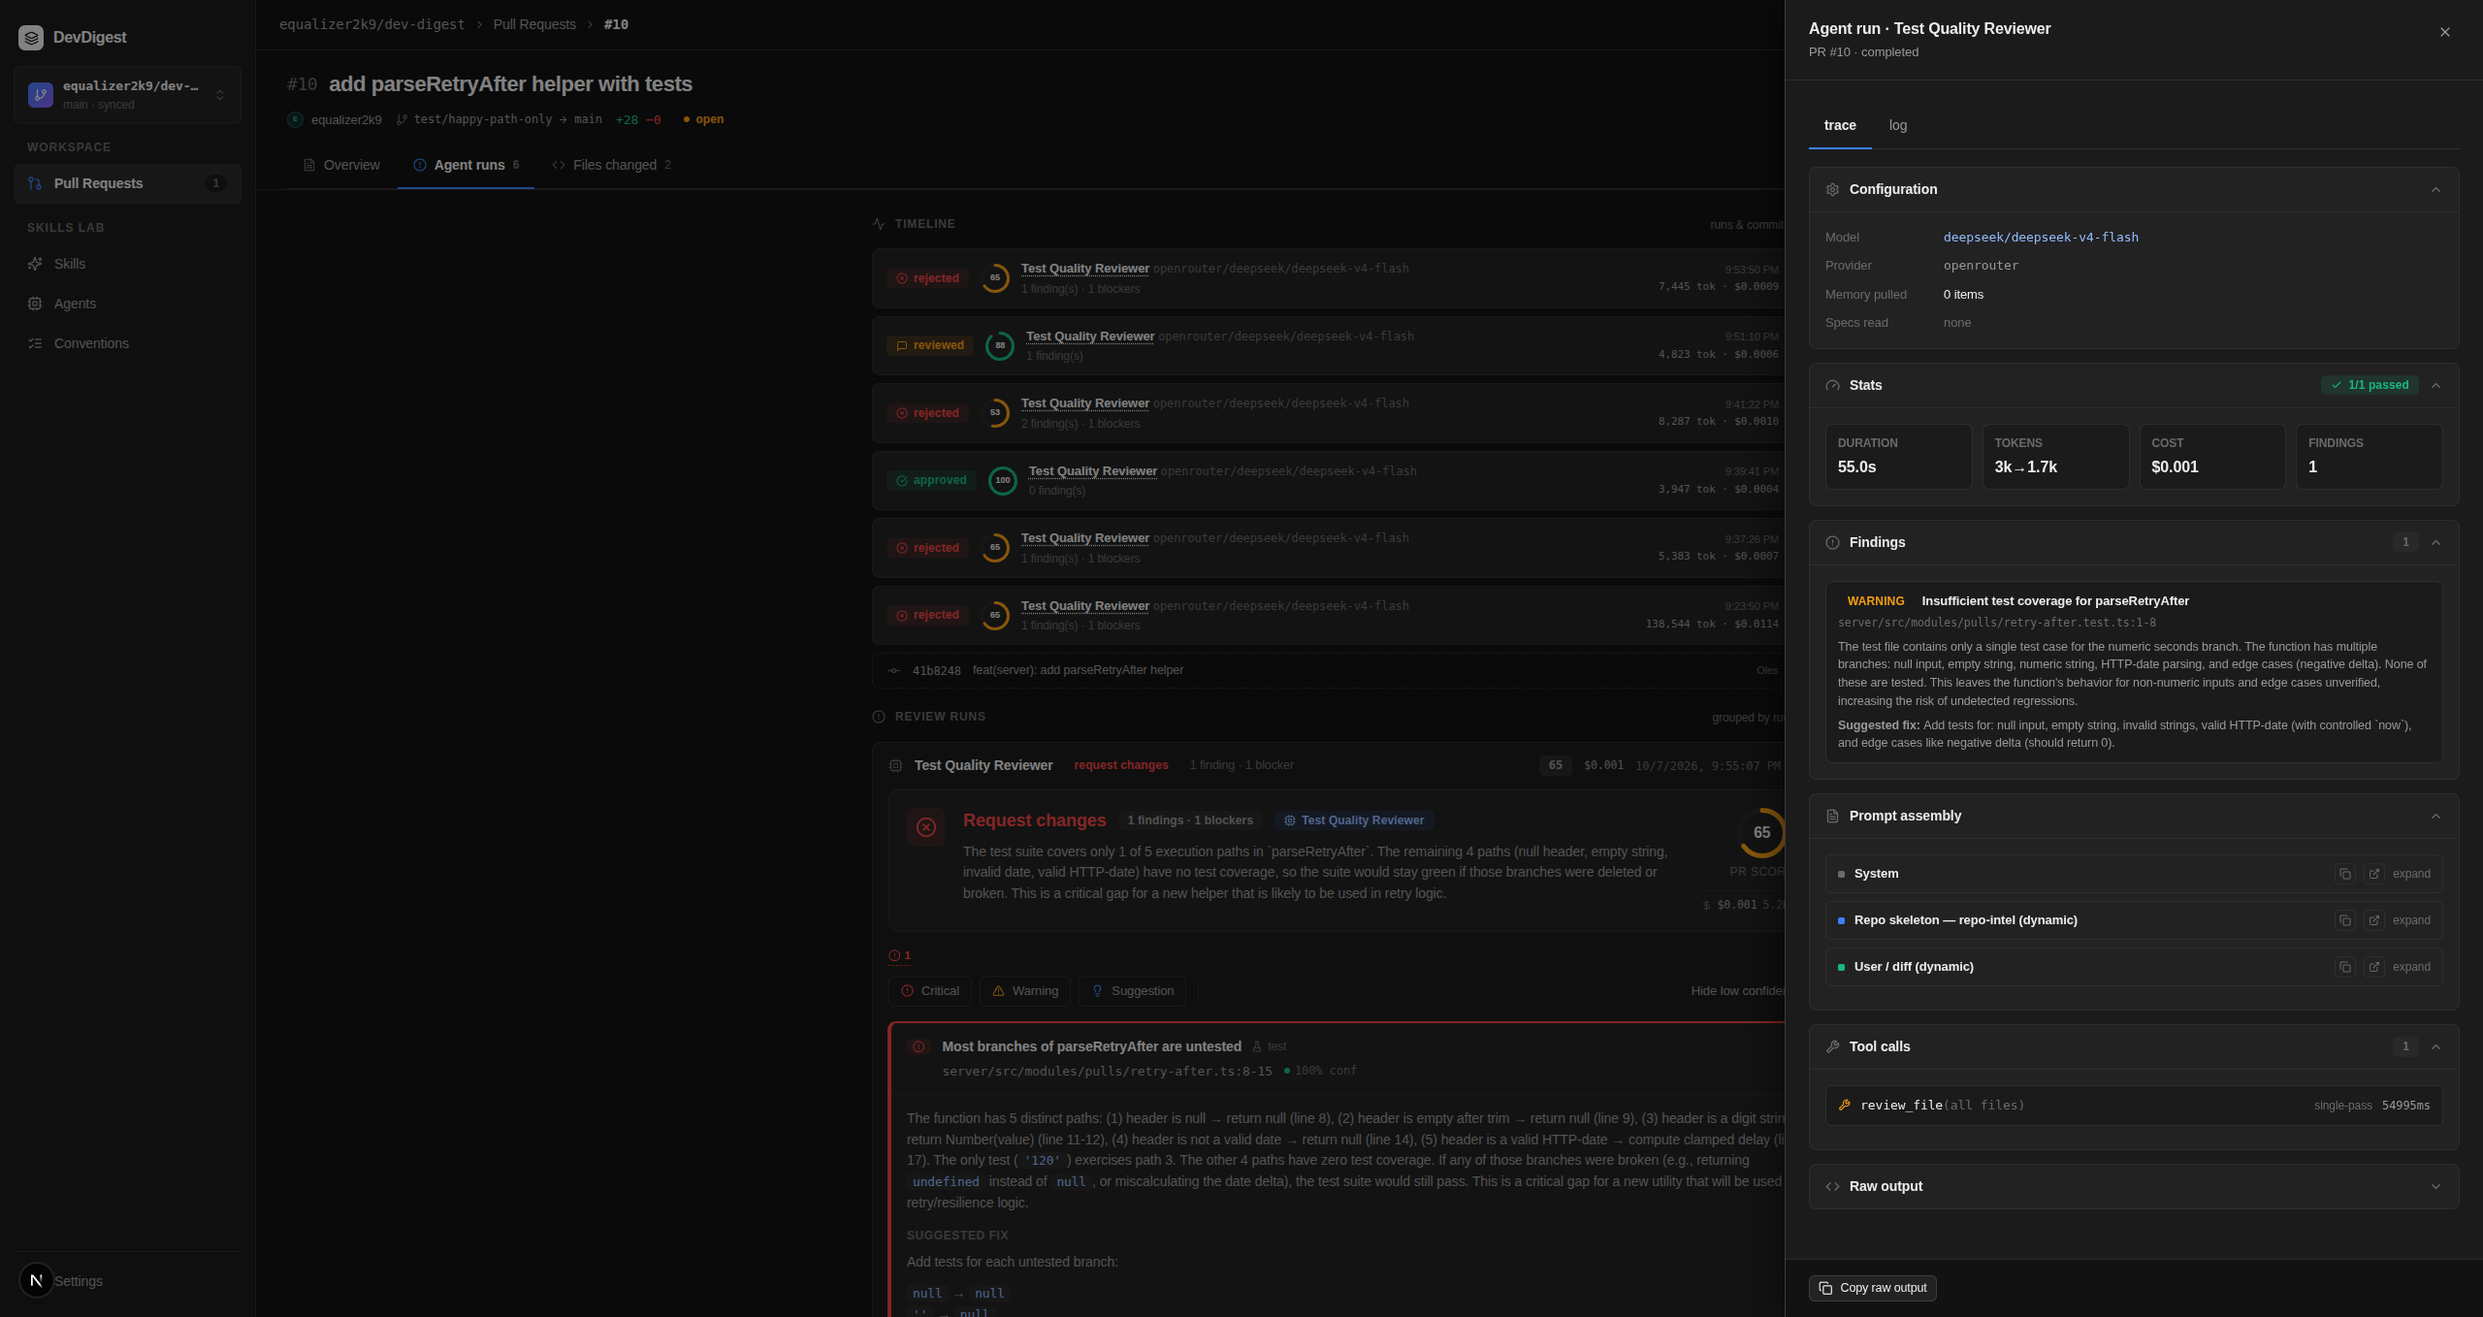
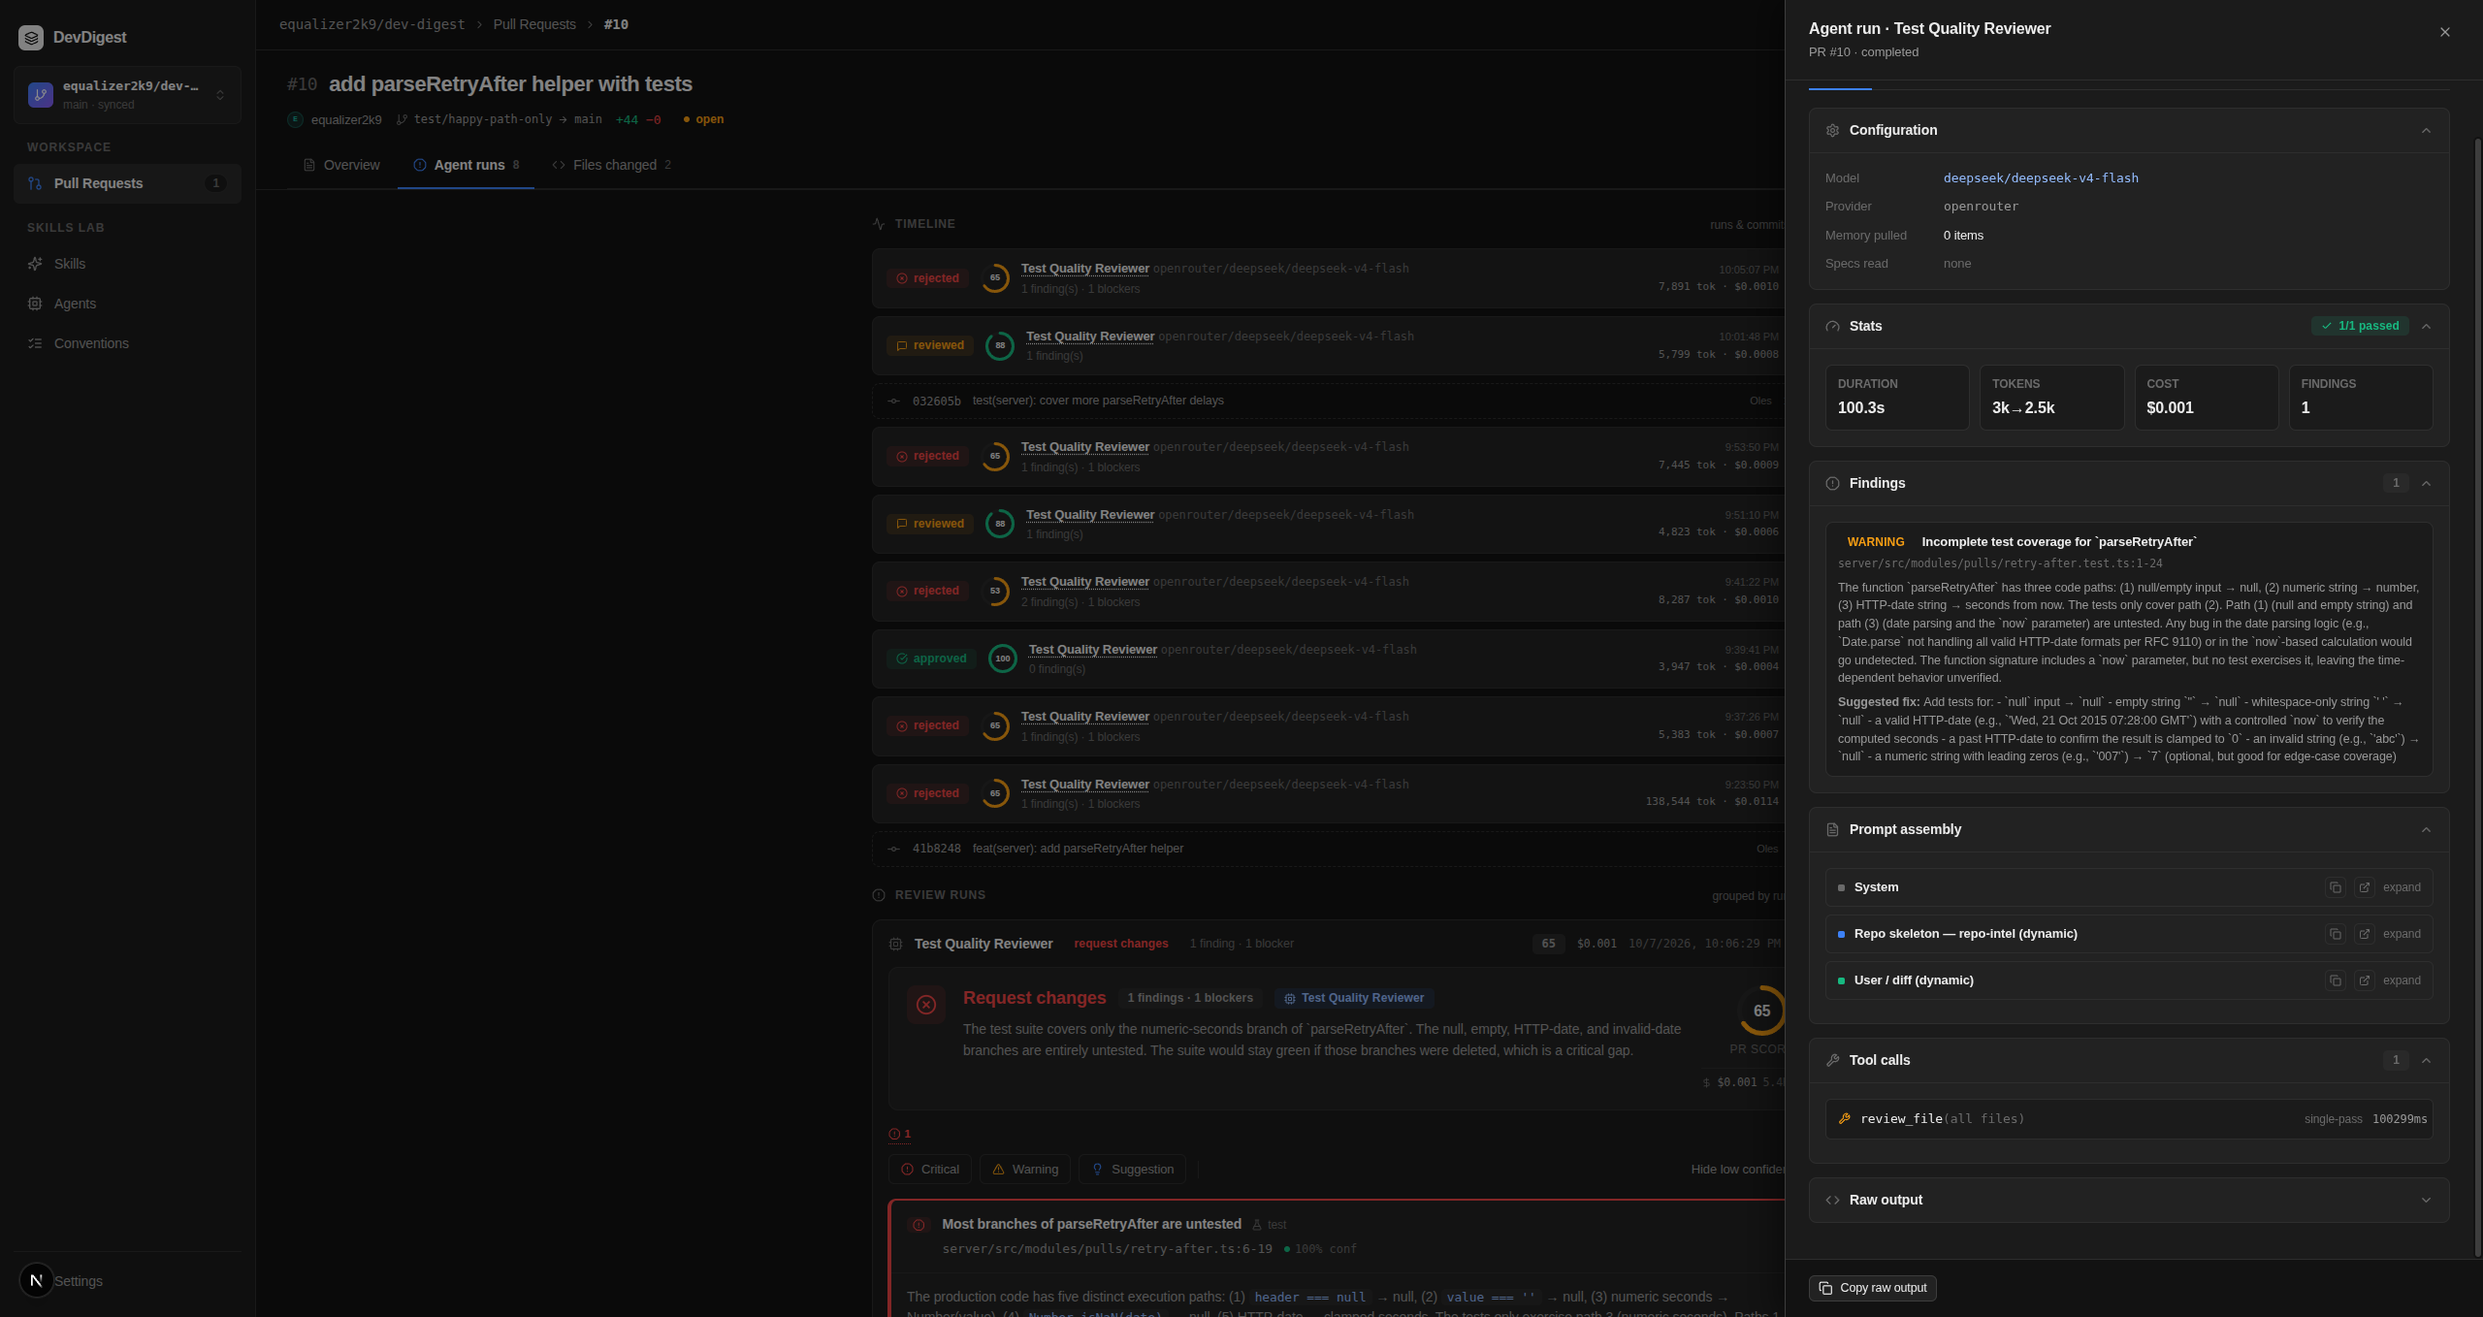
docs(hw2): AC-17 rerun on realistic happy-path PR

diff --git a/docs/hw2/experiment-report.md b/docs/hw2/experiment-report.md
@@ -10,21 +10,21 @@
 - Між прогонами A і B у парі змінюється тільки набір увімкнених скілів: той самий агент, та сама
   модель, той самий diff.
 - PR: [#10](https://github.com/equalizer2k9/dev-digest/pull/10) `test/happy-path-only` —
-  `parseRetryAfter` + тест на один випадок; [#9](https://github.com/equalizer2k9/dev-digest/pull/9)
+  `parseRetryAfter` + тест на п'ять щасливих випадків, усі з числовими рядками (head `032605b`); [#9](https://github.com/equalizer2k9/dev-digest/pull/9)
   `api/route-signature-change` — `PrFile.additions` → `added_lines` лише в серверному контракті.
 
 ## Результати
 
 | PR | Агент | Прогін | Run id | Блок скілів у трасі (токени) | Знахідки | Очікувана знахідка |
 |---|---|---|---|---|---|---|
-| #10 | Test Quality Reviewer | A — скіли вимкнені | `782a7f1c-e779-4cac-825f-2e51bda66f5a` | немає | 1 — WARNING | **є** (очікувалось: нема) |
-| #10 | Test Quality Reviewer | B — 4 скіли | `7cad8f94-cefd-4308-ba72-4334c5d4a17d` | є — 2044 (uncovered-branches 507 · edge-cases 504 · mock-overuse 482 · flaky-tests 551) | 1 — CRITICAL | є |
+| #10 | Test Quality Reviewer | A — скіли вимкнені | `04505739-e572-415c-9749-d0d234f95f50` | немає | 1 — WARNING | **є** (очікувалось: нема) |
+| #10 | Test Quality Reviewer | B — 4 скіли | `414658cb-264e-42e5-9dfc-ab4247d172c7` | є — 2044 (uncovered-branches 507 · edge-cases 504 · mock-overuse 482 · flaky-tests 551) | 1 — CRITICAL | є |
 | #9 | API Contract Reviewer | A — скіли вимкнені | `01e2a66b-cc0b-4387-b729-d1682444c2d4` | немає | 1 — CRITICAL (false positive) | нема |
 | #9 | API Contract Reviewer | B — 4 скіли | `5e3c0877-8c1c-4b15-8ea0-ad883b6795b5` | є — 1841 (breaking-change 491 · response-schema 446 · deprecation-policy 439 · semver-discipline 465) | 5 — CRITICAL (1 false positive) | є |
 
 «Очікувана знахідка» — непокриті гілки для #10, breaking change для #9.
 
-Вхідні токени запиту: #10 A 3126 → B 5243; #9 A 3596 → B 5484.
+Вхідні токени запиту: #10 A 3266 → B 5383; #9 A 3596 → B 5484.
 
 Скріншоти Run Trace (секція Prompt assembly):
 
@@ -35,10 +35,11 @@
 
 ## Що знайшли прогони A (без скілів)
 
-- **#10, Test Quality** — WARNING `server/src/modules/pulls/retry-after.test.ts:1-8`: «Insufficient
-  test coverage for parseRetryAfter». Агент і без скіла помітив, що тест покриває одну гілку з
-  кількох. Тобто умова AC-17 «без скіла не флагує» **не виконалась**: роль «рев'ю тестів» плюс
-  один тест на функцію з чотирма умовами — достатньо, щоб модель це побачила сама.
+- **#10, Test Quality** — WARNING `server/src/modules/pulls/retry-after.test.ts:1-24`: «Incomplete
+  test coverage for `parseRetryAfter`». Агент і без скіла помітив, що п'ять тестів проходять лише
+  числовий шлях, а `null`/порожній рядок і HTTP-дата з параметром `now` не перевірені. Тобто умова
+  AC-17 «без скіла не флагує» **не виконалась** і на правдоподібному наборі тестів: моделі
+  вистачає ролі «рев'ю тестів» і самого diff, щоб побачити непокриті шляхи.
 - **#9, API Contract** — CRITICAL `server/src/modules/pulls/routes.ts:304`: false positive (нижче).
   Саме перейменування поля як зміну контракту агент без скілів **не назвав**.
 
@@ -46,15 +47,16 @@
 
 **#10 — Test Quality Reviewer**
 
-- CRITICAL `server/src/modules/pulls/retry-after.ts:8-15` — «Most branches of parseRetryAfter are
-  untested». Перелічує п'ять шляхів функції (null, порожній рядок, число, невалідна дата, валідна
-  HTTP-дата) і каже, що тест `'120'` проходить лише третій. У пропонованому виправленні названі
-  межові значення: `''`, `'   '`, `'abc'`, `'0'`, дата з зафіксованим `now`, дата в минулому → `0`.
+- CRITICAL `server/src/modules/pulls/retry-after.ts:6-19` — «Most branches of parseRetryAfter are
+  untested». Перелічує п'ять шляхів функції (`header === null`, `value === ''`, число,
+  `Number.isNaN(date)`, HTTP-дата з обмеженням знизу) і каже, що тести проходять лише третій. У
+  пропонованому виправленні названі межові значення: `null`, `''`, `'   '`, майбутня дата із
+  зафіксованим `now`, дата в минулому → `0`, `'garbage'`, `'-5'`, `'1.5'`.
 
 Різниця з прогоном A: знахідка прив'язана до рядків продакшн-коду, а не до файлу тесту, гілки
-пронумеровані, межові значення названі, severity CRITICAL замість WARNING (так велить
-`uncovered-branches`). Окремої знахідки від `edge-cases` немає — межові випадки потрапили в ту
-саму знахідку.
+пронумеровані за умовами в коді, межових значень більше (знак, дробове число), severity CRITICAL
+замість WARNING (так велить `uncovered-branches`). Окремої знахідки від `edge-cases` немає —
+межові випадки потрапили в ту саму знахідку.
 
 **#9 — API Contract Reviewer**
 
@@ -82,8 +84,7 @@
   «detail and list endpoints». Список PR віддає `PrMeta`, його зміна не зачіпає; ламається лише
   `GET /pulls/:id`.
 - **Не false positive, але шум** — чотири CRITICAL на одному рядку `platform.ts:190` мають одну
-  причину, тому score PR падає до 0. Номери рядків у знахідці #10 B зсунуті на один (перевірка
-  `null` — рядок 7, а не 8); діапазон `8-15` усе одно в межах функції.
+  причину, тому score PR падає до 0.
 
 Що з цим робити далі (не зроблено, щоб не змінювати умови експерименту): у `response-schema`
 додати крок «перш ніж флагувати producer, визнач тип об'єкта-джерела — рядок БД чи DTO».
@@ -96,6 +97,12 @@
   на 16,5 хв (990 с), був скасований, але однаково дописався як `done`: 138 544 токени, $0.0114,
   1 CRITICAL. `8876909f-6e70-468f-ae3a-812bb95470cd` — повторний запуск, 1 CRITICAL. Промпт v1
   прямо перелічував, що шукати, тому скіл нічого не додавав.
+- **#10, промпт v3, перша версія тесту (head `41b8248`).** `782a7f1c-e779-4cac-825f-2e51bda66f5a`
+  (A, 1 WARNING) і `7cad8f94-cefd-4308-ba72-4334c5d4a17d` (B, 1 CRITICAL). Тест тоді мав один
+  випадок (`'120'`) і був очевидно слабким: A флагував його без скілів, тож не було ясно, чи це
+  заслуга агента, чи надто легкої мішені. Тому PR змінено — тест розширено до п'яти числових
+  випадків (`'30'`, `'120'`, `'3600'`, `' 45 '`, `'86400'`), коміт `032605b` — і пару A/B
+  перезапущено один раз. Результат той самий, повторних спроб не було.
 - **Промпт v2** (#10: `aa8d9f03…`, `826a66a1…`; #9: `e619d7b1…`, `d15f49d8…`) містив правило «без
   секції Skills — порожній список», тож A давав 0 знахідок за конструкцією. Ці прогони відкинуті
   як нечесний контроль; v3 це правило прибрав.
@@ -104,7 +111,8 @@
 
 AC-18 виконано: без скілів API Contract Reviewer не назвав перейменування поля зміною контракту, а
 з чотирма скілами повідомив про breaking change з точним `platform.ts:190`. AC-17 виконано
-наполовину: зі скілами агент називає непокриті гілки й межові значення, але WARNING про слабке
-покриття він видає і без скілів — скіл тут підвищує точність і severity, а не вмикає знахідку.
+наполовину: зі скілами агент називає непокриті гілки й межові значення, але WARNING про неповне
+покриття він видає і без скілів, навіть коли тест виглядає як нормальне покриття, — скіл тут
+підвищує точність і severity, а не вмикає знахідку.
 Обидва агенти дають один і той самий false positive на `routes.ts:304`, з якого видно, що скіли
 додають правила, але не перевірку фактів.

diff --git a/server/specs/skills-lab.md b/server/specs/skills-lab.md
@@ -251,7 +251,8 @@ all of 6–37.
       produces one naming the uncovered branch and a boundary case. Procedure and evidence per
       §6. — **Half met**, see [experiment report](../../docs/hw2/experiment-report.md): with the
       skills the finding names the uncovered branches and boundary values, but the agent also
-      raises a coverage WARNING with no skill enabled.
+      raises a coverage WARNING with no skill enabled — on the one-case test and again after
+      the test was widened to five numeric cases.
 - [x] **AC-18** Same shape for *API Contract Reviewer* on a route-signature PR: skipped without
       the skill, breaking change reported with it. — Evidence:
       [experiment report](../../docs/hw2/experiment-report.md).
